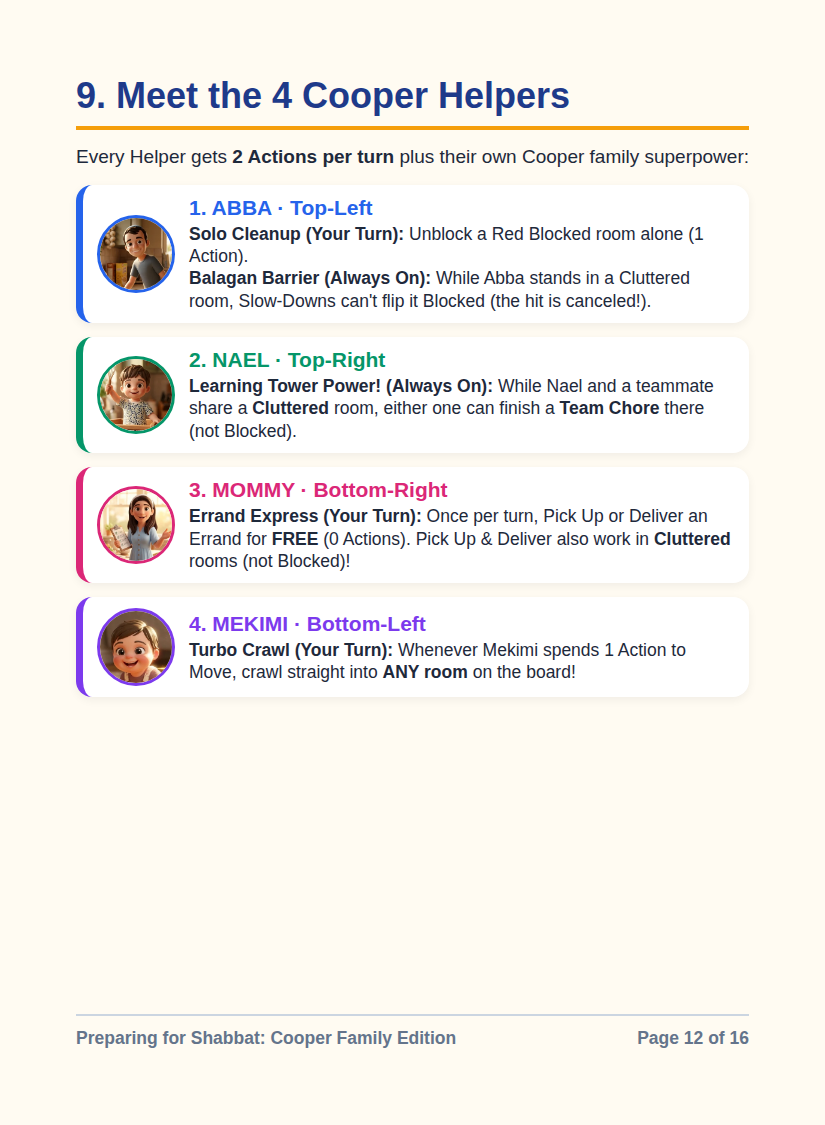
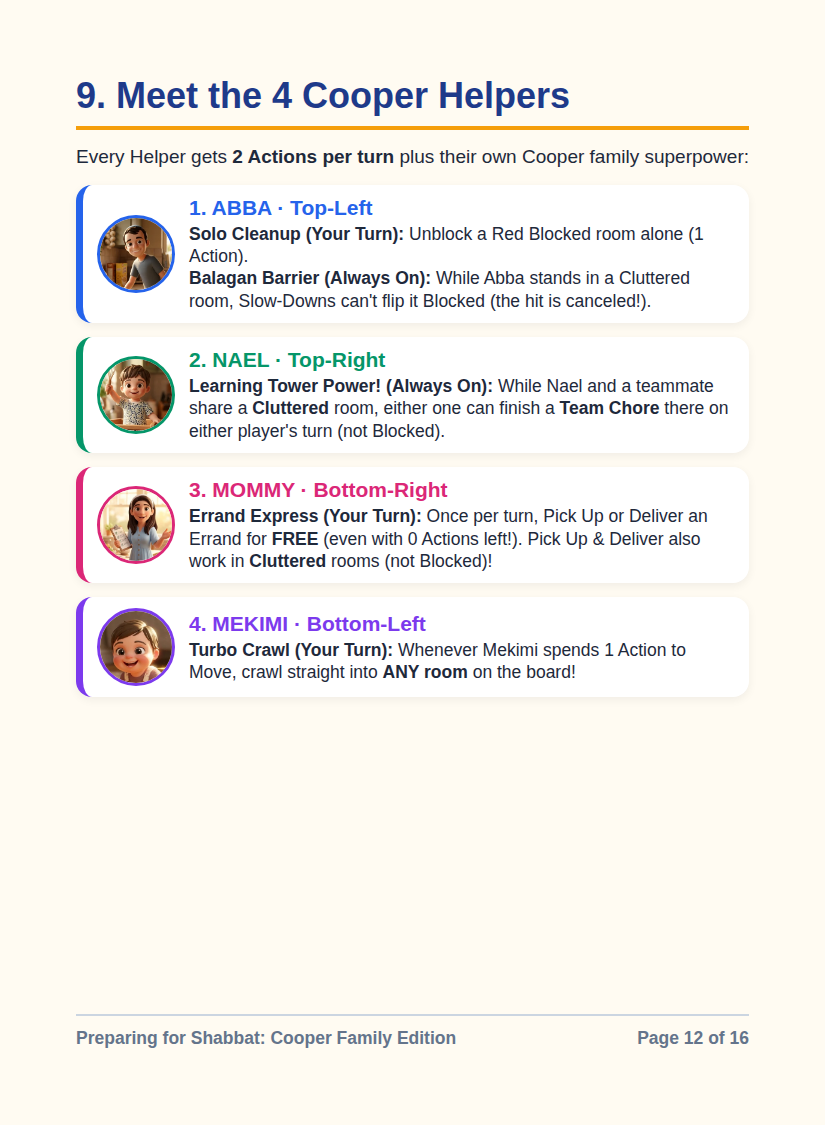
Rebalance Hard mode (15 Chores / 6 Clock), clarify Mommy & Nael powers, upgrade Room States cheat sheet & Event Deck badge

Changed region(s): [[0.2424, 0.4667, 0.8788, 0.5289], [0.2121, 0.3733, 0.5455, 0.4044], [0.8485, 0.3422, 0.8788, 0.3733]]

diff --git a/src/components/ClockStrip.tsx b/src/components/ClockStrip.tsx
@@ -77,27 +77,36 @@ export function ClockStrip({ state, onInspectCard }: ClockStripProps) {
         })}
       </div>
 
-      {shieldCount > 0 && (
-        <button
-          type="button"
-          className="clock-shield-badge"
-          onClick={() =>
-            onInspectCard({
-              title: state.clockShields[0].title,
-              subtitle: `${shieldCount} active shield${shieldCount > 1 ? 's' : ''} guarding upcoming Clock flips (boxed once triggered)`,
-              frontImage: state.clockShields[0].frontImage,
-              backImage: SHARED_BACKS.eventsAndTools,
-            })
-          }
+      <div className="clock-strip-badges">
+        <span
+          className="clock-events-pill"
+          title={`${state.eventDeck.length} cards left in Friday Events Deck · ${state.eventDiscard.length} in Event Discard (reshuffles when empty)`}
         >
-          <img
-            src={assetUrl(state.clockShields[0].frontImage)}
-            alt="Cousin Aviel Drops By! shield"
-            className="clock-shield-thumb"
-          />
-          Shield Active: Cousin Aviel Drops By!{shieldCount > 1 ? ` ×${shieldCount}` : ''}
-        </button>
-      )}
+          Events: <strong>{state.eventDeck.length}</strong>
+        </span>
+
+        {shieldCount > 0 && (
+          <button
+            type="button"
+            className="clock-shield-badge"
+            onClick={() =>
+              onInspectCard({
+                title: state.clockShields[0].title,
+                subtitle: `${shieldCount} active shield${shieldCount > 1 ? 's' : ''} guarding upcoming Clock flips (boxed once triggered)`,
+                frontImage: state.clockShields[0].frontImage,
+                backImage: SHARED_BACKS.eventsAndTools,
+              })
+            }
+          >
+            <img
+              src={assetUrl(state.clockShields[0].frontImage)}
+              alt="Cousin Aviel Drops By! shield"
+              className="clock-shield-thumb"
+            />
+            Shield: Cousin Aviel{shieldCount > 1 ? ` ×${shieldCount}` : ''}
+          </button>
+        )}
+      </div>
     </section>
   );
 }

diff --git a/src/styles/index.css b/src/styles/index.css
@@ -3435,4 +3435,95 @@ img {
   }
 }
 
+/* ClockStrip Event Deck Count Pill & Room States Quick-Reference Popover */
+.clock-strip-badges {
+  display: inline-flex;
+  align-items: center;
+  gap: 8px;
+  flex-wrap: wrap;
+}
+
+.clock-events-pill {
+  display: inline-flex;
+  align-items: center;
+  gap: 4px;
+  background: #f2ead9;
+  border: 1.5px solid var(--border-strong);
+  color: var(--bg-navy);
+  border-radius: 999px;
+  padding: 4px 10px;
+  font-size: 0.76rem;
+  font-weight: 700;
+  white-space: nowrap;
+}
+
+.room-states-help {
+  position: relative;
+  display: inline-block;
+}
+
+.room-states-help summary {
+  list-style: none;
+  cursor: pointer;
+  font-size: 0.72rem;
+  font-weight: 800;
+  color: var(--bg-navy);
+  background: #eef3ff;
+  border: 1px solid #c5d4f5;
+  border-radius: 999px;
+  padding: 2px 9px;
+  user-select: none;
+  white-space: nowrap;
+}
+
+.room-states-help summary::-webkit-details-marker {
+  display: none;
+}
+
+.room-states-help[open] summary {
+  background: var(--bg-navy);
+  color: #fff;
+  border-color: var(--bg-navy);
+}
+
+.room-states-popover {
+  position: absolute;
+  left: 0;
+  top: calc(100% + 6px);
+  z-index: 40;
+  width: min(360px, 84vw);
+  background: #fffdf8;
+  border: 2px solid var(--bg-navy);
+  border-radius: 12px;
+  padding: 8px;
+  box-shadow: 0 12px 28px rgba(15, 25, 54, 0.28);
+  display: flex;
+  flex-direction: column;
+  gap: 6px;
+}
+
+.rs-row {
+  font-size: 0.75rem;
+  line-height: 1.35;
+  padding: 6px 8px;
+  border-radius: 8px;
+  color: var(--ink-primary);
+}
+
+.rs-clear {
+  background: #ecfdf5;
+  border-left: 4px solid #059669;
+}
+
+.rs-cluttered {
+  background: #fffbeb;
+  border-left: 4px solid #d97706;
+}
+
+.rs-blocked {
+  background: #fef2f2;
+  border-left: 4px solid #b91c1c;
+}
+
+
 

diff --git a/src/data/cards.ts b/src/data/cards.ts
@@ -123,7 +123,7 @@ export const HELPER_DEFS: Record<HelperId, HelperDef> = {
       {
         name: 'Learning Tower Power!',
         timing: 'Always On',
-        text: 'While Nael and a teammate share a Cluttered room, either one can finish a Team Chore there (not Blocked).',
+        text: "While Nael and a teammate share a Cluttered room, either one can finish a Team Chore there on either player's turn (not Blocked).",
       },
     ],
   },
@@ -141,7 +141,7 @@ export const HELPER_DEFS: Record<HelperId, HelperDef> = {
       {
         name: 'Errand Express',
         timing: 'Your Turn',
-        text: 'Once per turn, Pick Up or Deliver an Errand for FREE (0 Actions). You may Pick Up or Deliver Errands even in a Cluttered room (not Blocked).',
+        text: 'Once per turn, Pick Up or Deliver an Errand for FREE (0 Actions — even with 0 Actions left!). You may Pick Up or Deliver Errands even in a Cluttered room (not Blocked).',
       },
     ],
   },
@@ -196,8 +196,8 @@ export const DIFFICULTY_CONFIGS: Record<DifficultyId, DifficultyConfig> = {
     id: 'HARD',
     name: 'Hard',
     tagline: 'Expert Friday Rush',
-    clockLength: 5,
-    afternoonCards: 4,
+    clockLength: 6,
+    afternoonCards: 5,
     totalChores: 15,
     choreRowTarget: 4,
     choreDeckStart: 11,

diff --git a/src/components/BoardGrid.tsx b/src/components/BoardGrid.tsx
@@ -83,6 +83,22 @@ export function BoardGrid({
           <span className="playmat-legend">
             Upright = Clear · Tilted = Cluttered · Red = Blocked
           </span>
+          <details className="room-states-help">
+            <summary>? Room States</summary>
+            <div className="room-states-popover">
+              <div className="rs-row rs-clear">
+                <strong>Clear (Upright):</strong> Everything works! Team Chores, Errands, Handoffs, Tools.
+              </div>
+              <div className="rs-row rs-cluttered">
+                <strong>Cluttered (Tilted):</strong> Walk in/out, Tidy (1 Helper), Free Handoff, Tools.
+                <em> Team Chores need Nael; Errands need Mommy.</em>
+              </div>
+              <div className="rs-row rs-blocked">
+                <strong>Red Blocked (“Stuck”):</strong> Walk in/out, Free Handoff, Tools. No Chores or Errands!
+                <em> Fix with 2+ Helpers together (or Abba alone).</em>
+              </div>
+            </div>
+          </details>
         </div>
         <span className="playmat-prompt">{getBoardPrompt(state)}</span>
       </div>

diff --git a/src/engine/engine.test.ts b/src/engine/engine.test.ts
@@ -38,7 +38,7 @@ describe('Preparing for Shabbat: Cooper Family Edition — D2* Rules Engine', ()
     }[] = [
       { diff: 'BEGINNER', clock: 7, row: 4, deck: 6, slow: 17, clutterSlots: [4], boxTimeFlies: true },
       { diff: 'STANDARD', clock: 6, row: 4, deck: 9, slow: 18, clutterSlots: [1, 7], boxTimeFlies: false },
-      { diff: 'HARD', clock: 5, row: 4, deck: 11, slow: 18, clutterSlots: [1, 7], boxTimeFlies: false },
+      { diff: 'HARD', clock: 6, row: 4, deck: 11, slow: 18, clutterSlots: [1, 7], boxTimeFlies: false },
     ];
 
     for (const tc of cases) {

diff --git a/scripts/generate-d2-print-pack.py b/scripts/generate-d2-print-pack.py
@@ -282,7 +282,7 @@ HELPERS_SPEC = [
         "bg": "#FDF2F8",
         "art_h": 425,
         "powers": [
-            ("Errand Express", "YOUR TURN", "Once per turn, Pick Up or Deliver an Errand for FREE (no Action spent). You may Pick Up or Deliver Errands even in a Cluttered room (not Blocked)."),
+            ("Errand Express", "YOUR TURN", "Once per turn, Pick Up or Deliver an Errand for FREE (no Action spent — even with 0 Actions left!). You may Pick Up or Deliver Errands even in a Cluttered room (not Blocked)."),
         ],
         "flavor": "“Tracking 47 things in her head and already three steps ahead.”",
     },
@@ -293,7 +293,7 @@ HELPERS_SPEC = [
         "bg": "#ECFDF5",
         "art_h": 425,
         "powers": [
-            ("Learning Tower Power!", "ALWAYS ON", "While Nael and a teammate share a Cluttered room, either one can finish a Team Chore there (not Blocked)."),
+            ("Learning Tower Power!", "ALWAYS ON", "While Nael and a teammate share a Cluttered room, either one can finish a Team Chore there on either player's turn (not Blocked)."),
         ],
         "flavor": "“Messy room? Doesn't stop the sous-chef.”",
     },
@@ -1106,14 +1106,14 @@ def build_booklet_pages() -> list[tuple[int, str]]:
             <img src="{av_nael}" alt="Nael">
             <div>
               <h3>2. NAEL · Top-Right</h3>
-              <p><strong>Learning Tower Power! (Always On):</strong> While Nael and a teammate share a <strong>Cluttered</strong> room, either one can finish a <strong>Team Chore</strong> there (not Blocked).</p>
+              <p><strong>Learning Tower Power! (Always On):</strong> While Nael and a teammate share a <strong>Cluttered</strong> room, either one can finish a <strong>Team Chore</strong> there on either player's turn (not Blocked).</p>
             </div>
           </div>
           <div class="helper-row" style="--c:#DB2777;">
             <img src="{av_mommy}" alt="Mommy">
             <div>
               <h3>3. MOMMY · Bottom-Right</h3>
-              <p><strong>Errand Express (Your Turn):</strong> Once per turn, Pick Up or Deliver an Errand for <strong>FREE</strong> (0 Actions). Pick Up &amp; Deliver also work in <strong>Cluttered</strong> rooms (not Blocked)!</p>
+              <p><strong>Errand Express (Your Turn):</strong> Once per turn, Pick Up or Deliver an Errand for <strong>FREE</strong> (even with 0 Actions left!). Pick Up &amp; Deliver also work in <strong>Cluttered</strong> rooms (not Blocked)!</p>
             </div>
           </div>
           <div class="helper-row" style="--c:#7C3AED;">
@@ -1155,7 +1155,7 @@ def build_booklet_pages() -> list[tuple[int, str]]:
               <tr>
                 <td><strong>Hard</strong><br><span style="font-size:13.5px; color:#B91C1C; white-space:nowrap;">Friday Rush</span></td>
                 <td><strong>15</strong><br>(4+11 / 3 boxed)</td>
-                <td><strong>5</strong><br>(4+1 / 5 boxed)</td>
+                <td><strong>6</strong><br>(5+1 / 4 boxed)</td>
                 <td><strong>2 rooms</strong><br><em>Top &amp; Bot Center</em></td>
                 <td><strong>18</strong><br><em>All included</em></td>
               </tr>
@@ -1165,7 +1165,7 @@ def build_booklet_pages() -> list[tuple[int, str]]:
             <strong>72-Card Check:</strong><br>
             • Beginner: 53 active + 19 boxed = <strong>72 cards</strong><br>
             • Standard: 56 active + 16 boxed = <strong>72 cards</strong><br>
-            • Hard: 57 active + 15 boxed = <strong>72 cards</strong>
+            • Hard: 58 active + 14 boxed = <strong>72 cards</strong>
           </div>
           <div class="box-card">
             <strong>Family Tip:</strong> Play <strong>Beginner</strong> once so kids learn the flow (almost every family wins their first game!), then step up to <strong>Standard</strong> for thrilling final-round finishes!
@@ -1217,37 +1217,46 @@ def build_booklet_pages() -> list[tuple[int, str]]:
         """),
 
         (16, "Tabletop Quick Reference", """
-          <div class="callout callout-blue" style="font-size:19.5px; text-align:center;">
+          <div class="callout callout-blue" style="font-size:19px; text-align:center; padding:12px 16px;">
             <strong>Turn Order:</strong> Abba → Nael → Mommy → Mekimi → <strong>Clock Flip!</strong><br>
             <strong>Every Turn:</strong> <strong>2 Actions</strong> (+ Free Handoff) → <strong>Flip 1 Event</strong>
           </div>
           <div class="grid-2">
-            <div class="box-card">
+            <div class="box-card" style="font-size:17px; padding:12px 14px;">
               <strong style="color:#1E3A8A;">4 Actions (Pick Any 2)</strong><br>
               • <strong>Move:</strong> 1 room straight<br>
               • <strong>Tidy:</strong> Cluttered (1) / Red (2 or Abba)<br>
-              • <strong>Chore:</strong> Team (2+) or Pick Up / Deliver Errand<br>
+              • <strong>Chore:</strong> Team (2+) or Errand<br>
               • <strong>Tool:</strong> Play from Toolbox
             </div>
-            <div class="box-card">
+            <div class="box-card" style="font-size:17px; padding:12px 14px;">
               <strong style="color:#B91C1C;">Slow-Downs (1 Rule!)</strong><br>
-              Scan matching zone L→R, T→B (skip Blocked):<br>
+              Scan matching zone L→R, T→B:<br>
               <strong>1st Cluttered → Blocked!</strong><br>
               Else <strong>1st Clear → Cluttered!</strong>
             </div>
           </div>
-          <div class="box-card">
-            <strong style="color:#047857;">Room States</strong> · <strong>Clear:</strong> Everything! · <strong>Cluttered:</strong> Move in/out, Tidy, Handoff, Tools (+ Nael Team / Mommy Errands) · <strong>Blocked:</strong> Move in/out, Unblock, Handoff, Tools only.
+          <div class="box-card" style="padding:10px 14px; font-size:16px; line-height:1.38;">
+            <strong style="color:#1E3A8A; display:block; margin-bottom:5px;">Room States Cheat Sheet (Keep Face-Up on Table!)</strong>
+            <div style="background:#ECFDF5; border-left:5px solid #059669; padding:5px 9px; border-radius:6px; margin-bottom:5px;">
+              <strong style="color:#065F46;">Clear (Upright):</strong> Everything works! Team Chores, Errands, Handoffs, Tools.
+            </div>
+            <div style="background:#FFFBEB; border-left:5px solid #D97706; padding:5px 9px; border-radius:6px; margin-bottom:5px;">
+              <strong style="color:#92400E;">Cluttered (Tilted):</strong> Walk, Tidy (1), Handoff, Tools. <em>(Team w/ Nael; Errands w/ Mommy.)</em>
+            </div>
+            <div style="background:#FEF2F2; border-left:5px solid #B91C1C; padding:5px 9px; border-radius:6px;">
+              <strong style="color:#991B1B;">Red Blocked (“Stuck”):</strong> Walk, Handoff, Tools only. Fix w/ <strong>2+ Helpers</strong> or <strong>Abba</strong>!
+            </div>
           </div>
-          <div class="box-card">
+          <div class="box-card" style="font-size:16.5px; padding:11px 14px; line-height:1.4;">
             <strong style="color:#B45309;">4 Family Superpowers</strong><br>
-            • <strong>Abba:</strong> Unblocks Red alone; his Cluttered room can't flip Red.<br>
-            • <strong>Nael:</strong> With teammate in Cluttered room, finish Team Chores.<br>
-            • <strong>Mommy:</strong> 1 Free Pick Up/Deliver per turn; Errands work in Cluttered.<br>
+            • <strong>Abba:</strong> Unblocks Red alone; his Cluttered room can't flip Red (canceled!).<br>
+            • <strong>Nael:</strong> With teammate in Cluttered room, either finishes Team Chores (any turn).<br>
+            • <strong>Mommy:</strong> 1 FREE Errand/turn (even at 0 Actions!); Errands work in Cluttered.<br>
             • <strong>Mekimi:</strong> Crawls straight into <strong>ANY room</strong> on any Move!
           </div>
-          <div class="box-card" style="font-size:17.5px; text-align:center;">
-            <strong>Modes:</strong> Beg <strong>10</strong> Chores / <strong>7</strong> Clock (no Time Flies) · Std <strong>13</strong> / <strong>6</strong> · Hard <strong>15</strong> / <strong>5</strong>
+          <div class="box-card" style="font-size:17px; text-align:center; padding:10px 14px;">
+            <strong>Modes:</strong> Beg <strong>10</strong> Chores / <strong>7</strong> Clock (no Time Flies) · Std <strong>13</strong> / <strong>6</strong> · Hard <strong>15</strong> / <strong>6</strong>
           </div>
         """),
     ]

diff --git a/RULES.md b/RULES.md
@@ -158,8 +158,8 @@ After **Mekimi** finishes her Event flip, the round ends:
 | Helper | Start Corner | Timing | Superpower |
 | :--- | :---: | :---: | :--- |
 | **Abba** | Top-Left | Your Turn & Always On | **Solo Cleanup (Your Turn):** Flip a Red Blocked room back to Clear all by yourself (1 Action, no teammate needed).<br>**Balagan Barrier (Always On):** While Abba stands in a Cluttered room, Slow-Downs cannot flip it Blocked (the hit is canceled!). |
-| **Mommy** | Bottom-Right | Your Turn | **Errand Express (Your Turn):** Once per turn, Pick Up **or** Deliver an Errand for **FREE** (does not cost an Action!), and you may Pick Up or Deliver Errands even in **Cluttered** rooms (not Blocked). |
-| **Nael** | Top-Right | Always On | **Learning Tower Power! (Always On):** While Nael and at least 1 teammate share a **Cluttered** room, either one can finish a **Team Chore** there (not Blocked). |
+| **Mommy** | Bottom-Right | Your Turn | **Errand Express (Your Turn):** Once per turn, Pick Up **or** Deliver an Errand for **FREE** (does not cost an Action — even with 0 Actions left!), and you may Pick Up or Deliver Errands even in **Cluttered** rooms (not Blocked). |
+| **Nael** | Top-Right | Always On | **Learning Tower Power! (Always On):** While Nael and at least 1 teammate share a **Cluttered** room, either one can finish a **Team Chore** there on either player's turn (not Blocked). |
 | **Mekimi** | Bottom-Left | Your Turn | **Turbo Crawl (Your Turn):** Whenever you spend 1 Action to Move, crawl straight into **ANY room** on the board! |
 
 ---
@@ -172,7 +172,7 @@ All modes use **9 Rooms** (3 boxed), **4 Helpers**, and **6 Tools** (**2** in Fa
 | :--- | :---: | :---: | :---: | :---: | :---: |
 | **Beginner** *(First Game · Ages 6+)* | **10** (4 + 6 / 8 boxed) | **7** (6 + 1 / 3 boxed) | **1 room** *(Center)* | **17** *(box Time Flies)* | `53 + 19 = 72` |
 | **Standard** *(Balanced Family Play)* | **13** (4 + 9 / 5 boxed) | **6** (5 + 1 / 4 boxed) | **2 rooms** *(Top-Center & Bot-Center)* | **18** *(all)* | `56 + 16 = 72` |
-| **Hard** *(Expert Friday Rush)* | **15** (4 + 11 / 3 boxed) | **5** (4 + 1 / 5 boxed) | **2 rooms** *(Top-Center & Bot-Center)* | **18** *(all)* | `57 + 15 = 72` |
+| **Hard** *(Expert Friday Rush)* | **15** (4 + 11 / 3 boxed) | **6** (5 + 1 / 4 boxed) | **2 rooms** *(Top-Center & Bot-Center)* | **18** *(all)* | `58 + 14 = 72` |
 
 ---
 
